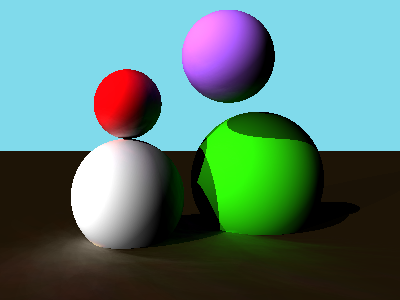
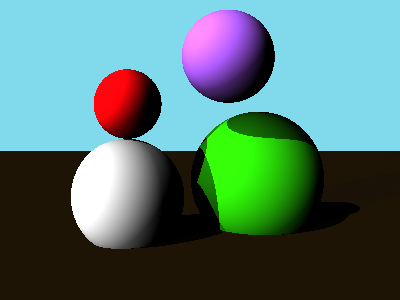
Optimizations

diff --git a/src/camera.rs b/src/camera.rs
@@ -18,8 +18,12 @@ pub enum UpdateStatus{
 
 const FOV: f64 = 70.;
 // const MAX_RAY_DEPTH: u32 = 0;
-const MAX_RAY_DEPTH: u32 = 2;
-const NUM_OF_REFLECTED_RAYS: usize = 200;
+const MAX_RAY_DEPTH: u32 = 3;
+const NUM_OF_REFLECTED_RAYS: usize = 100;
+// How many rays should be send in each reflection
+// i.e. 0.75 -> first reflection will have 0.75 * NUM_OF_REFLECTED_RAYS,
+// second will have 0.75 of previous number and so on
+const SCATTERED_RAYS_FALLOFF: f64 = 0.5;
 const WIDTH: u32 = 400;
 const HEIGHT: u32 = 300;
 // const WIDTH: u32 = 200;
@@ -122,8 +126,7 @@ impl Camera{
 
 
                 let ray = Ray::new(&self.starting_point, &ray_direction);
-                let items = world.item_that_collide(&ray);
-                if let Some(_item) = items
+                if let Some(_) = world.item_that_collide(&ray)
                 {
                     // Create reflected rays and add them to the arena
                     let node_id = self.arena.add_node(NodeId::Root, &Ray::new(&self.starting_point, &ray_direction));
@@ -151,10 +154,18 @@ impl Camera{
                 return;
             }
             //If the collision occurred
-            if let Some(collision_shape) = world.item_that_collide(&ray_node.ray){
-                //Iterate over all possible reflected rays and add it only if they collide
-                let new_collision_point = collision_shape.collision_point(&ray_node.ray).unwrap();
-                for offset in offsets.iter(){
+            if let Some((collision_shape, new_collision_point)) = world.item_that_collide(&ray_node.ray){
+                // Calculate the number of required rays
+                let mut num_of_rays = NUM_OF_REFLECTED_RAYS as f64;
+                if ray_node.recursion_depth > 0{
+                    let denominator = (ray_node.recursion_depth + 1) as f64 * SCATTERED_RAYS_FALLOFF;
+                    num_of_rays /= denominator;
+                }
+//                println!("{} {}", num_of_rays, ray_node.recursion_depth);
+                for (idx, offset) in offsets.iter().enumerate(){
+                    if idx > num_of_rays as usize{
+                        break;
+                    }
                     let new_direction = collision_shape.normal_at_point(&new_collision_point).unwrap() + *offset;
                     let new_ray = Ray::new(&new_collision_point, &new_direction);
                     let new_node_id = self.arena.add_node(id, &new_ray);
@@ -190,8 +201,7 @@ impl Camera{
     fn calculate_last_node_color(&self, world: &World, id: NodeId) -> Color{
 
         if let Some(node) = self.arena.get_node(id){
-            if let Some(item) = world.item_that_collide(&node.ray){
-                let collision_point = item.collision_point(&node.ray).unwrap();
+            if let Some((item, collision_point)) = world.item_that_collide(&node.ray){
                 let normal = item.normal_at_point(&collision_point).unwrap().normalized();
 
                 let mut resulting_color = Color::new();

diff --git a/src/world.rs b/src/world.rs
@@ -3,6 +3,7 @@ use crate::ray::Ray;
 use crate::lightsource::Lightsource;
 use std::rc::Rc;
 use std::f64;
+use crate::vector::Vector;
 
 pub struct World{
     shapes: Vec<Rc<dyn Shape>>,
@@ -27,17 +28,18 @@ impl World{
     {
         self.lights.push(light);
     }
-    pub fn item_that_collide(&self, ray: &Ray) -> Option<Rc<dyn Shape>>
+
+    pub fn item_that_collide(&self, ray: &Ray) -> Option<(Rc<dyn Shape>, Vector)>
     {
         let mut closest_item_that_collide: Option<Rc<dyn Shape>> = None;
+        let mut closest_collision_point: Option<Vector> = None;
         let mut smallest_distance = f64::MAX;
         for shape in self.shapes.iter()
         {
             // Check if ray will even collide with shape to avoid unnecessary calculations
             if shape.can_collide(&ray)
             {
-                let point = shape.collision_point(&ray);
-                if let Some(collision_point) = point
+                if let Some(collision_point) = shape.collision_point(&ray)
                 {
                     // Calculate the distance to closest collision, because ray will end in
                     // the first collision
@@ -46,13 +48,14 @@ impl World{
                     {
                         smallest_distance = distance;
                         closest_item_that_collide = Some(Rc::clone(&shape));
+                        closest_collision_point = Some(collision_point);
                     }
                 }
             }
         }
         match closest_item_that_collide
         {
-            Some(item) => Some(item),
+            Some(item) => Some((item, closest_collision_point.unwrap())),
             None => None
         }
     }
